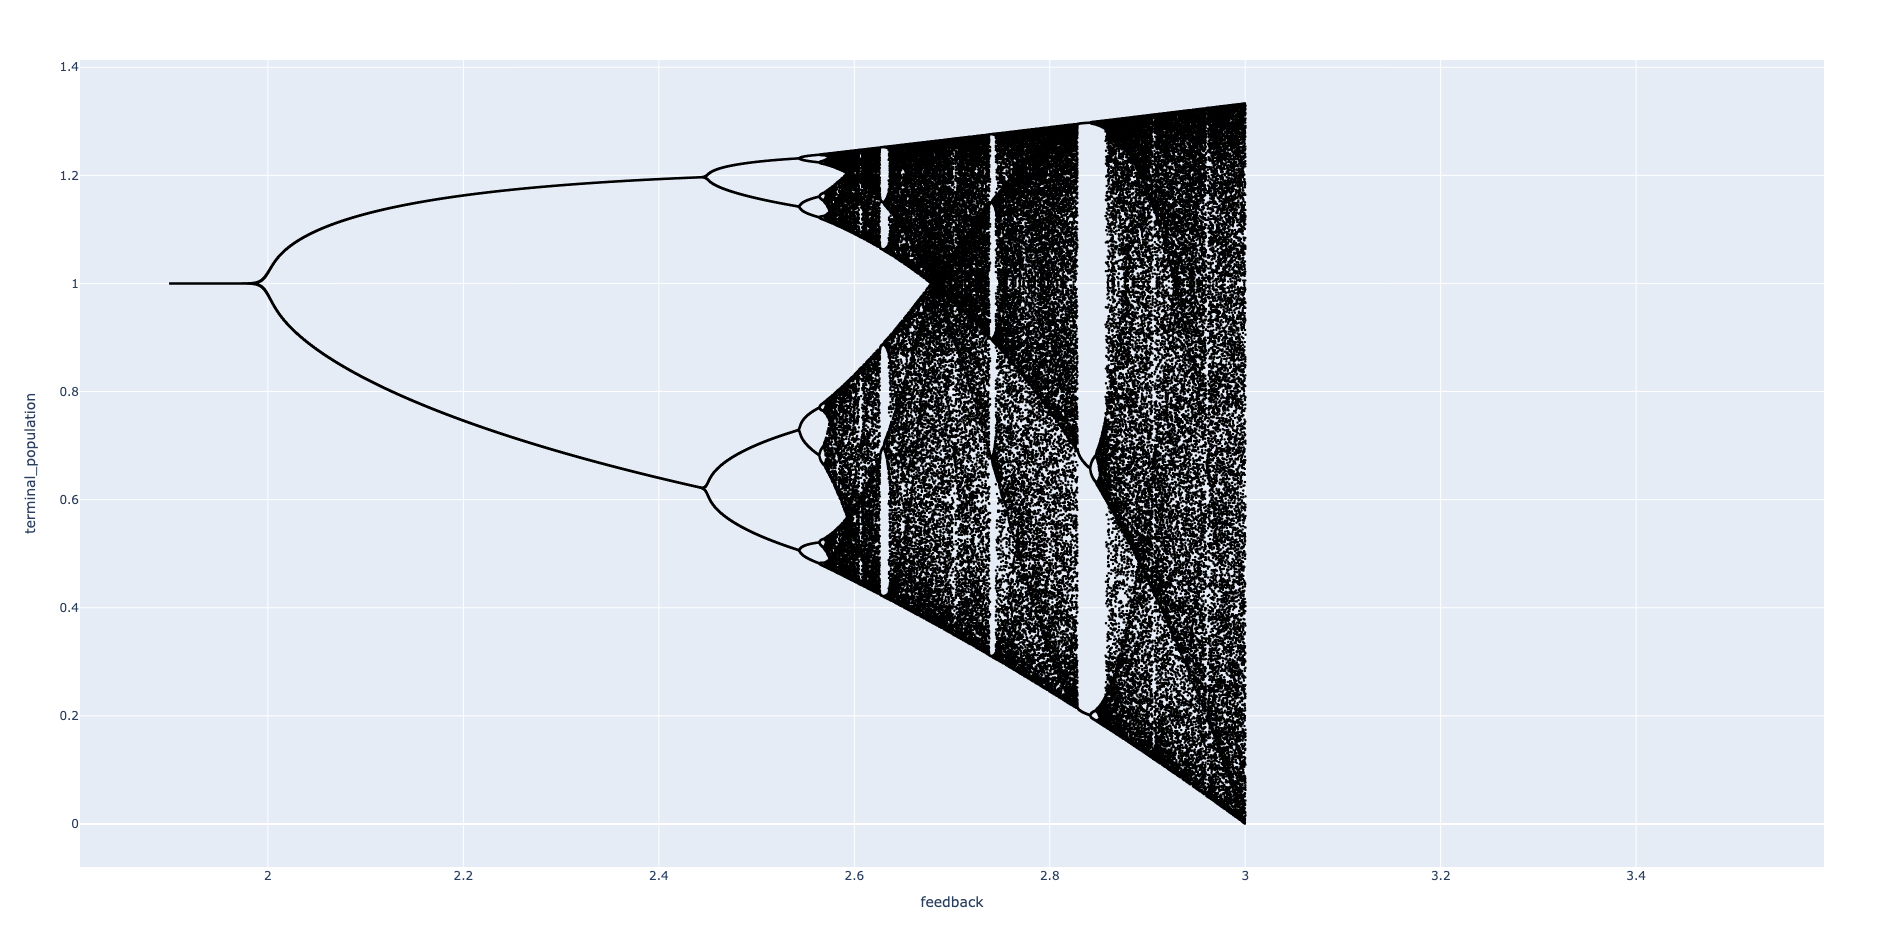
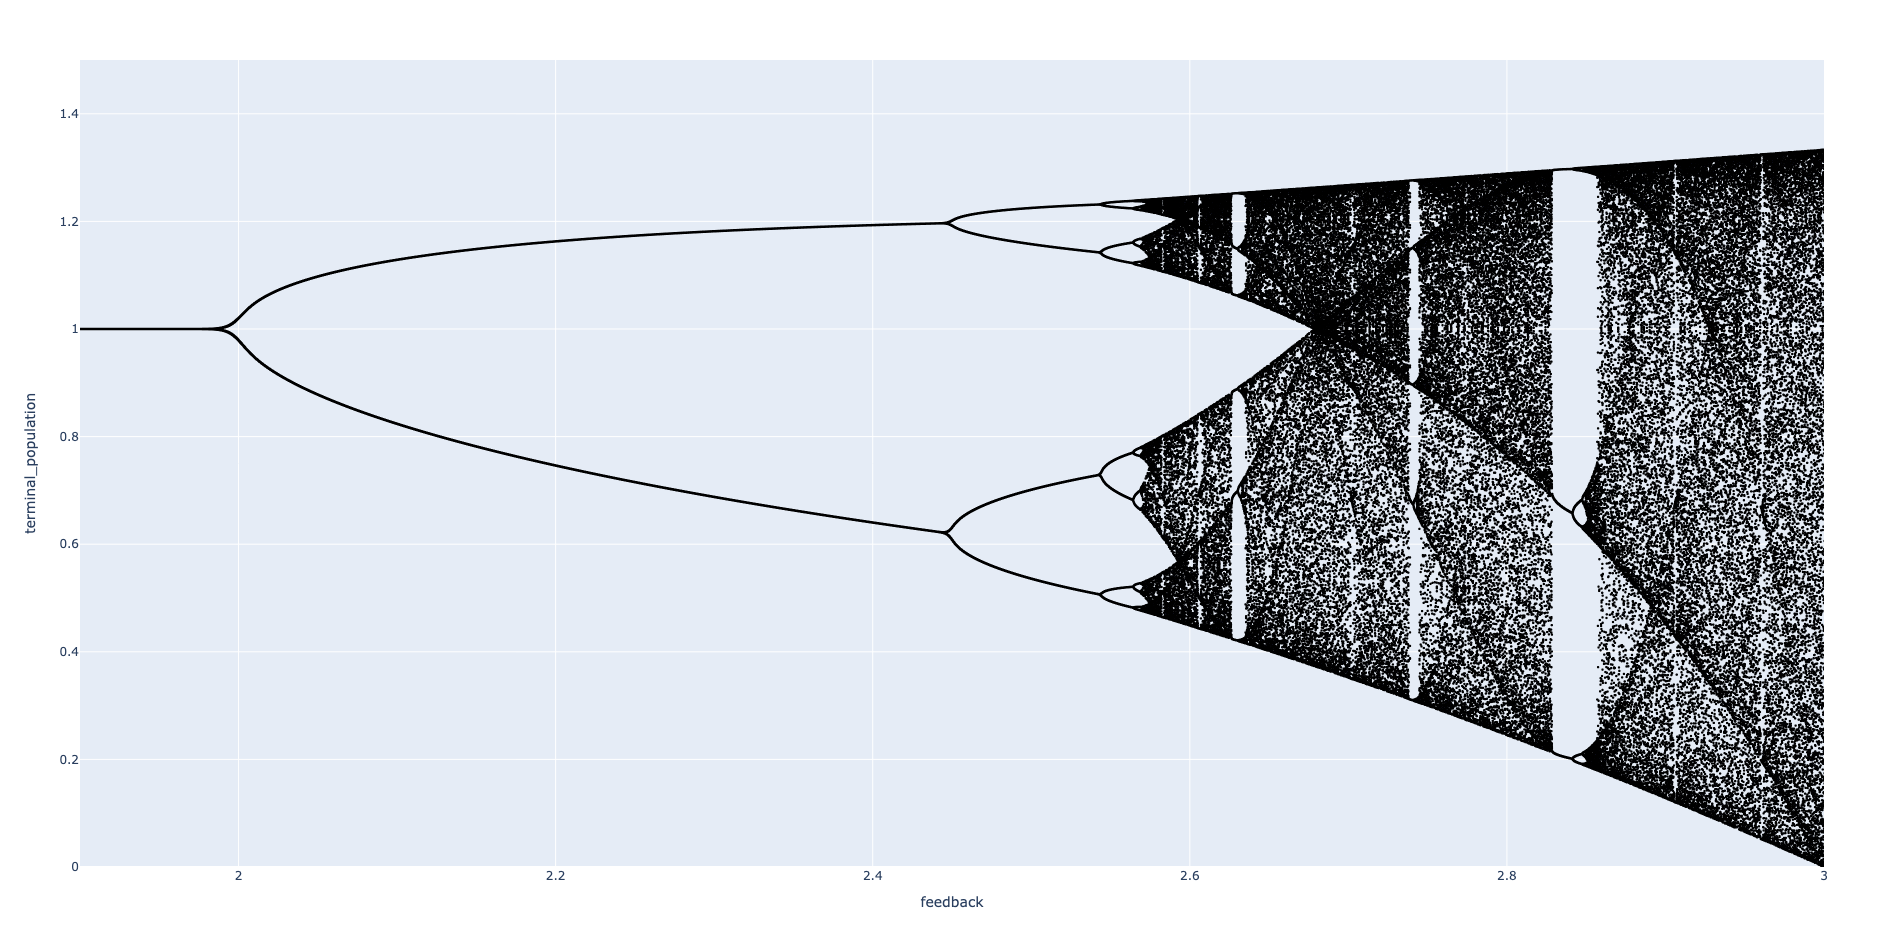
Add a better view

diff --git a/measles_number.py b/measles_number.py
@@ -21,7 +21,7 @@ def main():
 
     d: list = []
 
-    for k in np.arange(1.90, feedback_target, feedback_step):
+    for k in np.arange(1.90, feedback_target + feedback_step, feedback_step):
         population = p
         skip = 275
         for i in range(maximal_iteration):
@@ -36,6 +36,7 @@ def main():
     fig = px.scatter(df, x='feedback',  y='terminal_population')
     fig.update_traces(marker=dict(size=1, line=dict(width=1, color="Black")),
                       selector=dict(mode='markers'))
+    fig.update_layout(xaxis_range=[1.90, 3], yaxis_range=[0, 1.5])
     fig.show()
 
 
